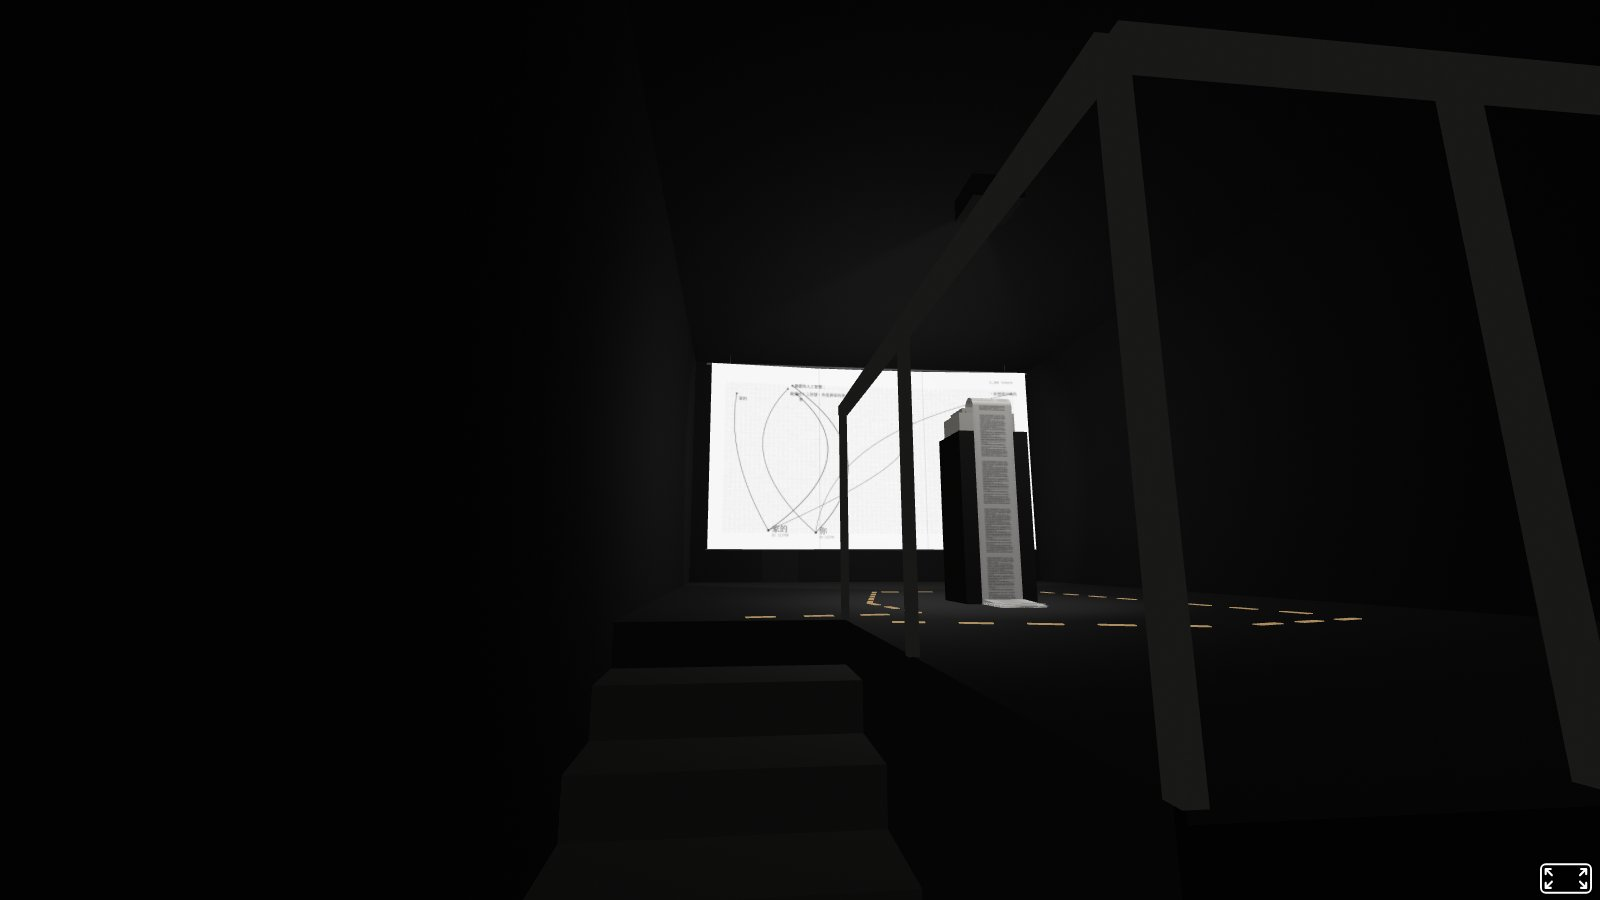
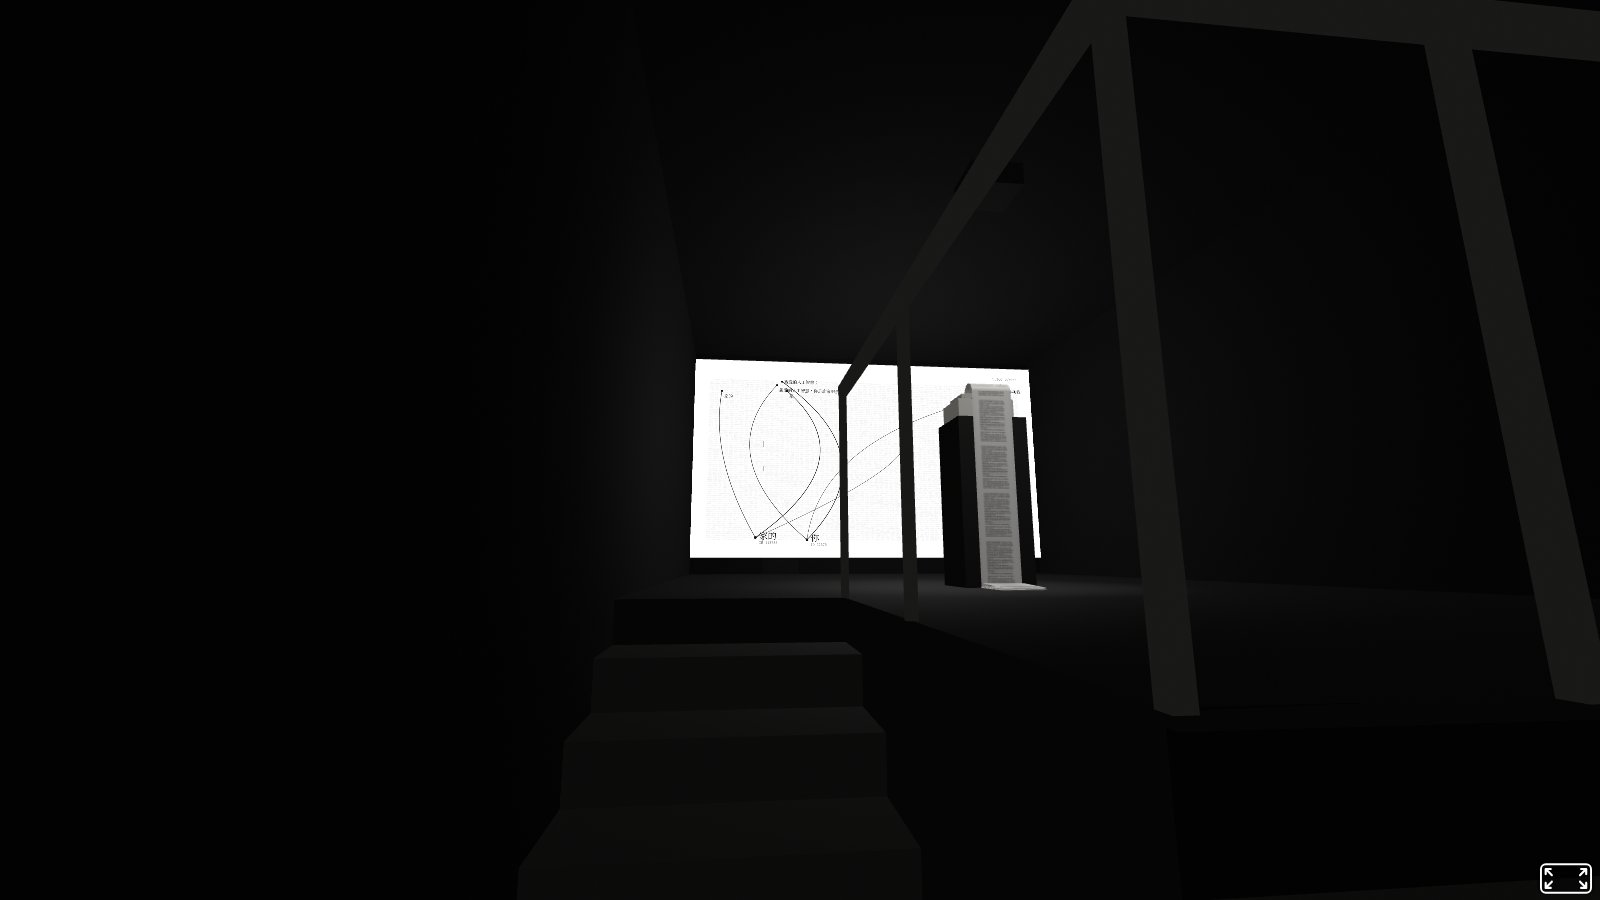
更新：展場 3D 預覽換成 v23（投影直接打在牆上）
Claude-Session: https://claude.ai/code/session_01EE4v5mEkSg963mjg7VvvBM

Changed region(s): [[0.4062, 0.3733, 0.6562, 0.6222], [0.5938, 0.56, 0.6562, 0.6844], [0.4688, 0.6533, 0.5625, 0.7156]]

diff --git a/index.html b/index.html
@@ -3,14 +3,14 @@
 <head>
 <meta charset="utf-8">
 <meta name="viewport" content="width=device-width, initial-scale=1, viewport-fit=cover">
-<title>README 毛刺 2F 配置（v22 印表機在中央）</title>
+<title>README 毛刺 2F 配置（v23 投影在牆上）</title>
 <link rel="preconnect" href="https://fonts.googleapis.com">
 <link rel="stylesheet" href="https://fonts.googleapis.com/css2?family=Noto+Sans+TC:wght@400;500&family=IBM+Plex+Mono:wght@400;500&display=swap">
 <style>
 /* Layout: full-bleed 3D room, one compact control sheet floating bottom-left. Single dark look by choice. */
 :root{
   --bg:#0b0b0a; --panel:rgba(16,16,15,.88); --fg:#ecebe7; --muted:#9a988f;
-  --line:rgba(236,235,231,.14); --accent:#e0b77a; --on:#1a1712;
+  --line:rgba(236,235,231,.14); --accent:#4a4a47; --on:#f2f1ed;
   --sans:"Noto Sans TC","PingFang TC","Microsoft JhengHei",sans-serif;
   --mono:"IBM Plex Mono",ui-monospace,Menlo,monospace;
   color-scheme:dark;
@@ -60,7 +60,7 @@ AFRAME.registerComponent('live-canvas',{
 </script>
 
 <div id="stage">
-<a-scene embedded renderer="colorManagement:true; antialias:true" background="color:#050505" vr-mode-ui="enabled:true" loading-screen="dotsColor:#e0b77a; backgroundColor:#0b0b0a">
+<a-scene embedded renderer="colorManagement:true; antialias:true" background="color:#050505" vr-mode-ui="enabled:true" loading-screen="dotsColor:#8a8a86; backgroundColor:#0b0b0a">
   <a-assets>
     <video id="tokvid" src="README_ch1_roughcut_4m12s_preview720.mp4" loop muted playsinline autoplay preload="auto"></video>
   </a-assets>
@@ -90,18 +90,6 @@ AFRAME.registerComponent('live-canvas',{
       </div>
     </div>
     <div>
-      <div class="label">投影牆</div>
-      <div class="row" id="wallMode">
-        <button class="chip" data-m="cloth" aria-pressed="true">布幕三折</button>
-        <button class="chip" data-m="env" aria-pressed="false">A4 對角摺</button>
-        <button class="chip" data-m="tri" aria-pressed="false">A4 三折</button>
-        <button class="chip" data-m="vtri" aria-pressed="false">直式三折</button>
-        <button class="chip" data-m="flat" aria-pressed="false">原木牆 16:9</button>
-      </div>
-      <label class="slider" for="foldAng"><span>摺痕角度</span><input type="range" id="foldAng" min="0" max="12" step="1" value="4"><output id="foldOut">4°</output></label>
-      <div class="row" style="margin-top:8px"><button class="chip" id="swayBtn" aria-pressed="false">布幕微晃</button></div>
-    </div>
-    <div>
       <div class="label">牆面</div>
       <div class="row" id="walls">
         <button class="chip" data-w="black" aria-pressed="true">全黑（木牆遮黑幕）</button>
@@ -117,17 +105,6 @@ AFRAME.registerComponent('live-canvas',{
       </div>
       <div class="dims" id="paperInfo" style="margin-top:8px"></div>
     </div>
-    <div class="row">
-      <button class="chip" id="pathBtn" aria-pressed="true">顯示動線</button>
-    </div>
-    <ul class="legend">
-      <li><span class="sw" style="background:#f4f3ef"></span><span>單頻道投影，聲音外放</span></li>
-      <li><span class="sw" style="background:#d9d8d4"></span><span>布幕 360 × 203 cm（16:9），摺三折後燙出兩條直摺線，三幅布在摺線處接縫；上方吊桿懸掛，下方細桿拉平</span></li>
-      <li><span class="sw" style="background:#d6d3cb"></span><span>EPSON LQ-310 點陣印表機，展場中央的高台上（100 cm），面向布幕；頂光</span></li>
-      <li><span class="sw" style="background:#f7f6f2"></span><span>接力回信印在不剪斷的連續報表紙（9.5 吋）上，從高台背面垂落，在地上沿摺線疊起</span></li>
-      <li><span class="sw" style="background:#3a3a38"></span><span>入口：觀眾從左側樓梯走上來，面向布幕（階梯示意）；底部 87 cm 的門關著</span></li>
-    </ul>
-    <p class="hint">拖曳畫面看四周；電腦可用 WASD 或方向鍵走動。模型裡的投影是錄像開頭＋第一章粗剪（4:12）。印表機的高度、紙怎麼落下、紙上的字都是示意，等印表機實測。其他摺法（A4 假牆）保留作對照。</p>
   </div>
 </aside>
 </div>
@@ -234,7 +211,7 @@ add('a-cylinder',{position:'0 0.352 -7.45',rotation:'0 0 90',radius:0.007,height
 [-1.6,1.6].forEach(x=>add('a-cylinder',{position:`${x} 2.45 -7.45`,radius:0.002,height:0.1,material:ROD},rig));
 function setMode(m){
   mode=m;const flat=m==='flat';
-  plain.setAttribute('visible',flat);sheetEl.setAttribute('visible',!flat);frameEl.setAttribute('visible',!flat&&m!=='cloth');rig.setAttribute('visible',m==='cloth');document.getElementById('swayBtn').disabled=m!=='cloth';
+  plain.setAttribute('visible',flat);sheetEl.setAttribute('visible',!flat);frameEl.setAttribute('visible',!flat&&m!=='cloth');rig.setAttribute('visible',m==='cloth');
   projL.setAttribute('light','intensity',flat?0:0.35);
   if(!flat){
     const cl=m==='cloth';
@@ -246,8 +223,6 @@ function setMode(m){
     if(pc.width!==nW||pc.height!==nH){pc.width=nW;pc.height=nH;ptex.dispose();ptex=mkTex();mat.map=ptex;mat.emissiveMap=ptex;mat.needsUpdate=true;}
     buildSheet();drawSheet();
   }
-  document.getElementById('foldAng').disabled=flat;
-  document.querySelectorAll('#wallMode .chip').forEach(b=>b.setAttribute('aria-pressed',b.dataset.m===m));
 }
 
 /* printer at the centre of the room: tall stand, LQ-310 facing the screen, printed fanfold paper
@@ -311,19 +286,6 @@ function setPaper(days){
 add('a-entity',{id:'prT',position:`${PX} 0.8 ${PZ+0.1}`});
 add('a-entity',{position:`${PX+0.25} 2.45 ${PZ+0.55}`,light:'type:spot; color:#ffffff; intensity:1.5; angle:30; penumbra:0.7; distance:3.6; decay:1.4; target:#prT'});
 
-/* walking path, dashed on the floor */
-const pathRoot=add('a-entity',{id:'path'});
-const pts=[[-1.52,-3.5],[-0.65,-3.6],[-0.75,-4.3],[-0.45,-5.5],[0.8,-5.4],[1.15,-3.2],[0.3,-2.95],[-1.1,-3.3]];
-for(let i=0;i<pts.length-1;i++){
-  const [x1,z1]=pts[i],[x2,z2]=pts[i+1];const dx=x2-x1,dz=z2-z1,L=Math.hypot(dx,dz);
-  const ang=Math.atan2(dx,dz)*180/Math.PI;
-  for(let s=0.12;s<L-0.06;s+=0.26){
-    const t=s/L;
-    add('a-box',{position:`${x1+dx*t} 0.004 ${z1+dz*t}`,width:0.035,height:0.004,depth:0.13,rotation:`0 ${ang} 0`,
-      material:'shader:flat; color:#e0b77a; opacity:0.75; transparent:true'},pathRoot);
-  }
-}
-
 /* controls */
 const cam=document.getElementById('cam');
 const views={
@@ -371,19 +333,12 @@ function setWalls(m){
 }
 document.getElementById('walls').addEventListener('click',e=>{const b=e.target.closest('[data-w]');if(b)setWalls(b.dataset.w);});
 document.getElementById('paperMode').addEventListener('click',e=>{const b=e.target.closest('[data-d]');if(b)setPaper(+b.dataset.d);});
-const pathBtn=document.getElementById('pathBtn');
-pathBtn.addEventListener('click',()=>{const on=pathBtn.getAttribute('aria-pressed')!=='true';pathBtn.setAttribute('aria-pressed',on);document.getElementById('path').setAttribute('visible',on);});
 const fold=document.getElementById('fold'),sheet=document.getElementById('sheet');
 fold.addEventListener('click',()=>{const c=sheet.classList.toggle('collapsed');fold.textContent=c?'展開':'收合';fold.setAttribute('aria-expanded',!c);});
 const sc=document.querySelector('a-scene');
 const vid=document.getElementById('tokvid');const kick=()=>{vid&&vid.play().catch(()=>{});};document.addEventListener('pointerdown',kick,{once:true});
-document.getElementById('wallMode').addEventListener('click',e=>{const b=e.target.closest('[data-m]');if(b)setMode(b.dataset.m);});
-const angIn=document.getElementById('foldAng'),angOut=document.getElementById('foldOut');
-angIn.addEventListener('input',()=>{ang=+angIn.value;angOut.textContent=ang+'°';if(mode!=='flat'&&mesh)buildSheet();});
-const swayBtn=document.getElementById('swayBtn');
-swayBtn.addEventListener('click',()=>{sway=!sway;swayBtn.setAttribute('aria-pressed',sway);if(mesh&&mode==='cloth')setZ(mesh.geometry);});
 window.__model={drawSheet,goto,setMode,setPaper}; /* hook for tools/render_walkthrough.py */
-const start=()=>{setMode('cloth');setPaper(14);goto('door');kick();};
+const start=()=>{setMode('flat');setPaper(14);goto('door');kick();};
 if(sc.hasLoaded) start(); else sc.addEventListener('loaded',start);
 })();
 </script>

diff --git a/README.md b/README.md
@@ -1,11 +1,11 @@
 # README：寫給人工智慧的一封信 — 展場 3D 預覽
 
-吳方娸 ljaljuy tjavelengan〈README：寫給人工智慧的一封信〉在毛刺 Glitch 2F 的展場配置示意（v22）。
+吳方娸 ljaljuy tjavelengan〈README：寫給人工智慧的一封信〉在毛刺 Glitch 2F 的展場配置示意（v23）。
 
 - 線上預覽：https://wufangci.github.io/readme-3D-demo/
-- 展場是兩個部分：布幕三折上的錄像投影，以及展場中央的 EPSON LQ-310 點陣印表機。印表機每天把人工智慧之間的接力回信印在不剪斷的連續報表紙上，紙從高台垂落，在地上越疊越多。
+- 展場是兩個部分：直接投在牆上的錄像，以及展場中央的 EPSON LQ-310 點陣印表機。印表機每天把人工智慧之間的接力回信印在不剪斷的連續報表紙上，紙從高台垂落，在地上越疊越多。
 - 觀眾從布幕左側的樓梯走上二樓進入展場，上樓時正對布幕。
 - 選單可以切換「開展第 3 天／第 2 週／閉展前」，看紙在展期中的變化。
-- 尺寸、燈光、材質、印表機位置、紙怎麼落下與樓梯的階數都是示意，尚未定案；紙上的字是示意。布幕上播的是開頭＋第一章粗剪（無聲預覽）。
+- 尺寸、燈光、材質、印表機位置、紙怎麼落下與樓梯的階數都是示意，尚未定案；紙上的字是示意。牆上播的是開頭＋第一章粗剪（無聲預覽）。
 
-來源：工作室 repo `components/exhibition/active/22-printer-center/`。
+來源：工作室 repo `components/exhibition/active/23-wall-projection/`。
